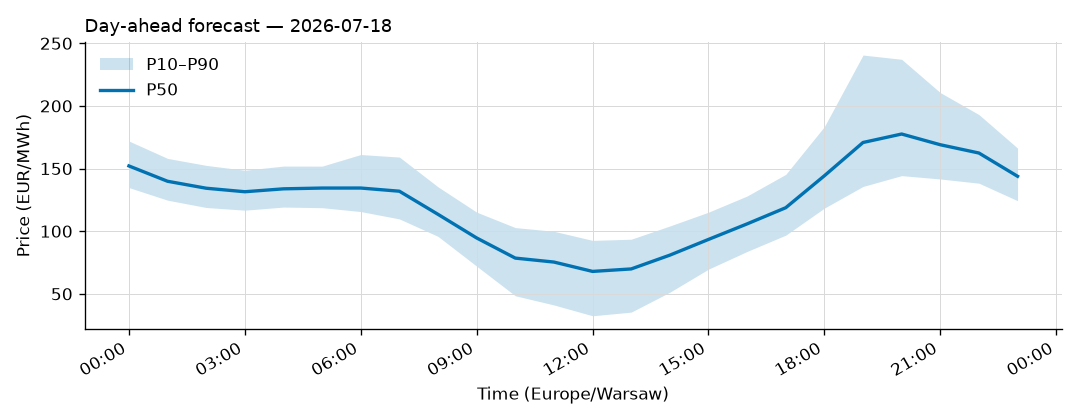
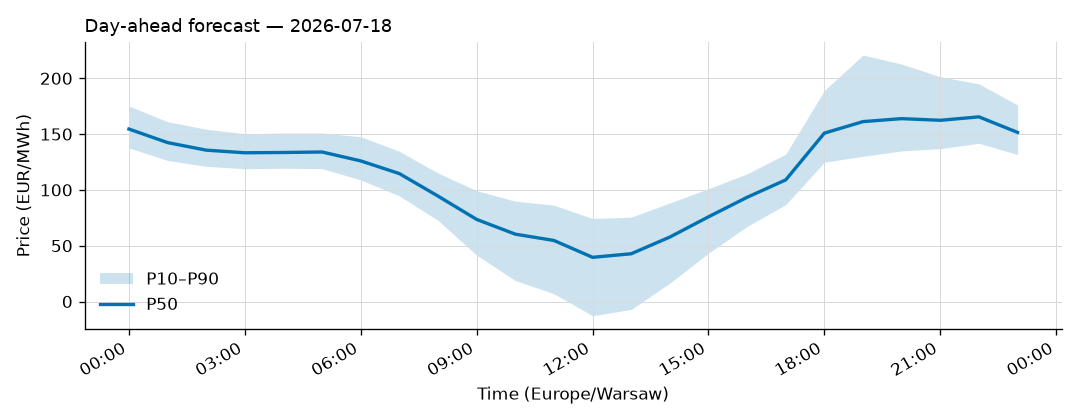
feat: fuel features adopted for daily LEAR; outages opt-in; CI 503 fix
- fuel verdict: LEAR 18.46 -> 18.24, gain concentrated in the high-gas
  winter 2024/25 (Jan bias -15.9 -> -4.6) — fixes the winter
  under-forecasting the bias chart flagged. Adopted at track-record
  day zero, cheapest possible moment.
- daily price step: fuel backfill + features wired, yfinance failure
  isolated (stale closes ffill)
- conformal offsets refreshed from fuel-model errors
- outage backfill now opt-in only: heavy endpoint 503s on CI and the
  feature verdict was flat — ops loop does not need it
- live-tested: full daily run, zero failures in oddities

diff --git a/src/pipeline/price_daily.py b/src/pipeline/price_daily.py
@@ -61,6 +61,7 @@ def persist_24h(
 def _assemble(
     price: pd.Series, load: pd.Series, tso: pd.Series, res: pd.DataFrame,
     tz: str, start: pd.Timestamp, end: pd.Timestamp,
+    fuel: pd.DataFrame | None = None,
 ) -> pd.DataFrame:
     from src.pipeline.daily_run import shift_local_day
 
@@ -73,7 +74,7 @@ def _assemble(
                 hours, price, load,
                 price_cutoff=hours[0],
                 load_cutoff=shift_local_day(day, -1, tz) + pd.Timedelta(hours=9),
-                tso=tso, res=res,
+                tso=tso, res=res, fuel=fuel,
             )
         )
         day = shift_local_day(day, 1, tz)
@@ -85,7 +86,11 @@ def price_daily_step(
 ) -> tuple[dict[str, float], list[str], list[str]]:
     """Returns (scores, report_lines, oddities). Raises on hard failure —
     the caller isolates it."""
-    from src.ingestion.backfill import backfill_entsoe_prices, backfill_entsoe_res
+    from src.ingestion.backfill import (
+        backfill_entsoe_prices,
+        backfill_entsoe_res,
+        backfill_fuel,
+    )
     from src.pipeline.daily_run import shift_local_day
     from src.viz.plots import plot_forecast_band
 
@@ -97,13 +102,24 @@ def price_daily_step(
     # 1. Incremental data pull (resume-based, cheap after backfill).
     backfill_entsoe_prices(cfg)
     backfill_entsoe_res(cfg)
+    try:
+        backfill_fuel(cfg)
+    except Exception:
+        pass  # yfinance hiccup must not kill the price step; stale closes ffill
+
     price = pd.read_parquet(proc / "price_da_eur.parquet").iloc[:, 0]
     load = pd.read_parquet(proc / "load.parquet").iloc[:, 0]
     tso = pd.read_parquet(proc / "tso_forecast.parquet").iloc[:, 0]
     res = pd.read_parquet(proc / "res_forecast.parquet")
+    fuel_path = proc / "fuel_daily.parquet"
+    fuel = pd.read_parquet(fuel_path) if fuel_path.exists() else None
+
 
     scores: dict[str, float] = {}
     oddities: list[str] = []
+    if fuel is None:
+        oddities.append("Price: fuel_daily.parquet missing — running without "
+                        "TTF/EUA features (DECISIONS 2026-07-17).")
 
     # 2. Score yesterday's saved forecasts against the realized price.
     yhours = _local_day_hours_utc(yesterday, tz)
@@ -144,7 +160,7 @@ def price_daily_step(
         )
 
     train_start = shift_local_day(tomorrow, -365, tz)
-    x = _assemble(price, load, tso, res_filled, tz, train_start, tomorrow)
+    x = _assemble(price, load, tso, res_filled, tz, train_start, tomorrow, fuel=fuel)
     x_tr = x[x.index < thours[0]].dropna()
     y_tr = price.reindex(x_tr.index).dropna()
     x_tr = x_tr.reindex(y_tr.index)

diff --git a/src/ingestion/backfill.py b/src/ingestion/backfill.py
@@ -436,7 +436,10 @@ def main() -> int:
         backfill_entsoe_prices(cfg)
     if args.only in (None, "entsoe_res"):
         backfill_entsoe_res(cfg)
-    if args.only in (None, "entsoe_outages"):
+    if args.only == "entsoe_outages":
+        # opt-in ONLY: heavy, throttle-prone endpoint (503s on CI), and the
+        # outage feature is research-tier (backtest verdict: flat) — the
+        # daily ops loop does not need it.
         backfill_entsoe_outages(cfg)
     if args.only in (None, "fuel"):
         backfill_fuel(cfg)

diff --git a/reports/backtests/2026-07-17_price_res_out_fuel_summary.md b/reports/backtests/2026-07-17_price_res_out_fuel_summary.md
@@ -1,0 +1,26 @@
+# Price backtest summary — 2026-07-17_price_res_out_fuel
+
+Target: PL day-ahead price, EUR/MWh (ENTSO-E). Test period: 2024-07-16 → 2026-07-15.
+rMAE = MAE / MAE(naive-yesterday). No MAPE: prices cross zero.
+coverage_80_pct: share of actuals inside [P10, P90]; nominal 80.
+
+| model                 |    mae |   rmse |   pinball_p10 |   pinball_p50 |   pinball_p90 |   coverage_80_pct |   spike_mae |   spike_cover_pct |   n_hours |   rmae |
+|:----------------------|-------:|-------:|--------------:|--------------:|--------------:|------------------:|------------:|------------------:|----------:|-------:|
+| lgbm_quantile         | 17.871 | 28.753 |         4.665 |         8.935 |         5.415 |            52.268 |      60.287 |            43.95  |     17504 |  0.64  |
+| lear                  | 18.241 | 32.749 |         4.247 |         9.121 |         4.704 |            71.858 |      69.466 |            51.598 |     17504 |  0.653 |
+| price_naive_yesterday | 27.94  | 44.172 |         7.348 |        13.97  |         7.102 |            53.091 |      77.46  |            36.872 |     17504 |  1     |
+| price_naive_week      | 34.053 | 52.889 |         7.417 |        17.027 |         7.32  |            53.639 |      92.899 |            36.986 |     17504 |  1.219 |
+
+## Verdict (fundamentals round, 2026-07-17)
+
+- **Outages: FLAT** (LGBM 17.90 vs 17.85 base). Coarse aggregate +
+  revision-history limitation; refinements logged. Research store kept,
+  feature NOT adopted, backfill now opt-in (CI 503s on the endpoint).
+- **Fuel (TTF + EUA proxy): ADOPTED for the daily incumbent.** LEAR
+  18.24 vs 18.46. The gain concentrates exactly where the bias chart
+  pointed: winter 2024/25 (high-gas regime) — Jan bias -15.9 -> -4.6,
+  MAE -2.5; Feb bias -11.5 -> -1.0. Calm-gas winter 2025/26: no change,
+  as expected. Merit-order mechanism, measured.
+- LGBM: flat on fuel (trees already carry the slow level via lags).
+- Conformal offsets refreshed from the fuel-model errors
+  (lear 3.45, lgbm 10.06).

diff --git a/reports/backtests/2026-07-17_price_conformal_summary.md b/reports/backtests/2026-07-17_price_conformal_summary.md
@@ -1,0 +1,14 @@
+# Price backtest — conformal band calibration — 2026-07-17_price_conformal
+
+Rolling split-conformal (CQR, 90-day trailing window of
+out-of-sample errors, walk-forward honest). P50 untouched — only
+the band moves. First 30 days keep the raw band.
+
+| model                   |    mae |   rmse |   pinball_p10 |   pinball_p50 |   pinball_p90 |   coverage_80_pct |   spike_mae |   spike_cover_pct |   n_hours |   rmae |
+|:------------------------|-------:|-------:|--------------:|--------------:|--------------:|------------------:|------------:|------------------:|----------:|-------:|
+| lgbm_quantile           | 17.877 | 28.765 |         4.667 |         8.938 |         5.414 |            52.239 |      60.366 |            44.165 |     17504 |  0.639 |
+| lgbm_quantile_conformal | 17.877 | 28.765 |         4.22  |         8.938 |         4.738 |            78.816 |      60.366 |            51.487 |     17504 |  0.639 |
+| lear                    | 18.25  | 32.767 |         4.249 |         9.125 |         4.709 |            71.726 |      69.538 |            51.487 |     17504 |  0.653 |
+| lear_conformal          | 18.25  | 32.767 |         4.272 |         9.125 |         4.524 |            79.456 |      69.538 |            55.492 |     17504 |  0.653 |
+| price_naive_yesterday   | 27.96  | 44.198 |         7.35  |        13.98  |         7.098 |            53.141 |      77.558 |            37.071 |     17480 |  1     |
+| price_naive_week        | 34.01  | 52.862 |         7.418 |        17.005 |         7.316 |            53.69  |      92.964 |            37.185 |     17480 |  1.216 |

diff --git a/reports/daily/2026-07-17.md b/reports/daily/2026-07-17.md
@@ -6,9 +6,9 @@ Model: seasonal naive — **BASELINE**, not the final model. P50 copies the same
 
 | Forecast | MAPE |
 |---|---|
-| Ours (naive, incumbent) | 4.32% |
-| Challenger (ridge+TSO, shadow) | 1.72% |
-| TSO day-ahead | 1.88% |
+| Ours (naive, incumbent) | 4.27% |
+| Challenger (ridge+TSO, shadow) | 1.68% |
+| TSO day-ahead | 1.83% |
 
 ![Yesterday: forecast vs realized](../figures/daily/2026-07-16.png)
 
@@ -22,12 +22,11 @@ Model: seasonal naive — **BASELINE**, not the final model. P50 copies the same
 
 1. Same hour last week. The naive model copies it.
 2. Day of week: tomorrow is a Saturday.
-3. Warsaw temperature tomorrow: 21 to 26 °C (not yet used by the model).
+3. Warsaw temperature tomorrow: 21 to 27 °C (not yet used by the model).
 
 ### Oddities
 
 - Price: no saved forecast for yesterday; first score tomorrow.
-- Price: TSO load forecast for 2026-07-18 not yet published (24 h persisted from the day before).
 - Price: RES forecast for 2026-07-18 not yet published (24 h persisted from the day before).
 
 ![Day-ahead forecast fan chart](../figures/daily/2026-07-18.png)
@@ -44,8 +43,8 @@ Model: seasonal naive — **BASELINE**, not the final model. P50 copies the same
 
 ### Tomorrow (2026-07-18) — the price forecast
 
-- Expected peak price: **178 EUR/MWh** around 20:00 local.
-- P50 range: 68 – 178 EUR/MWh; band at peak 144 – 237.
+- Expected peak price: **165 EUR/MWh** around 22:00 local.
+- P50 range: 40 – 165 EUR/MWh; band at peak 142 – 195.
 
 ![Price forecast tomorrow](../figures/daily/price_2026-07-18.png)
 
